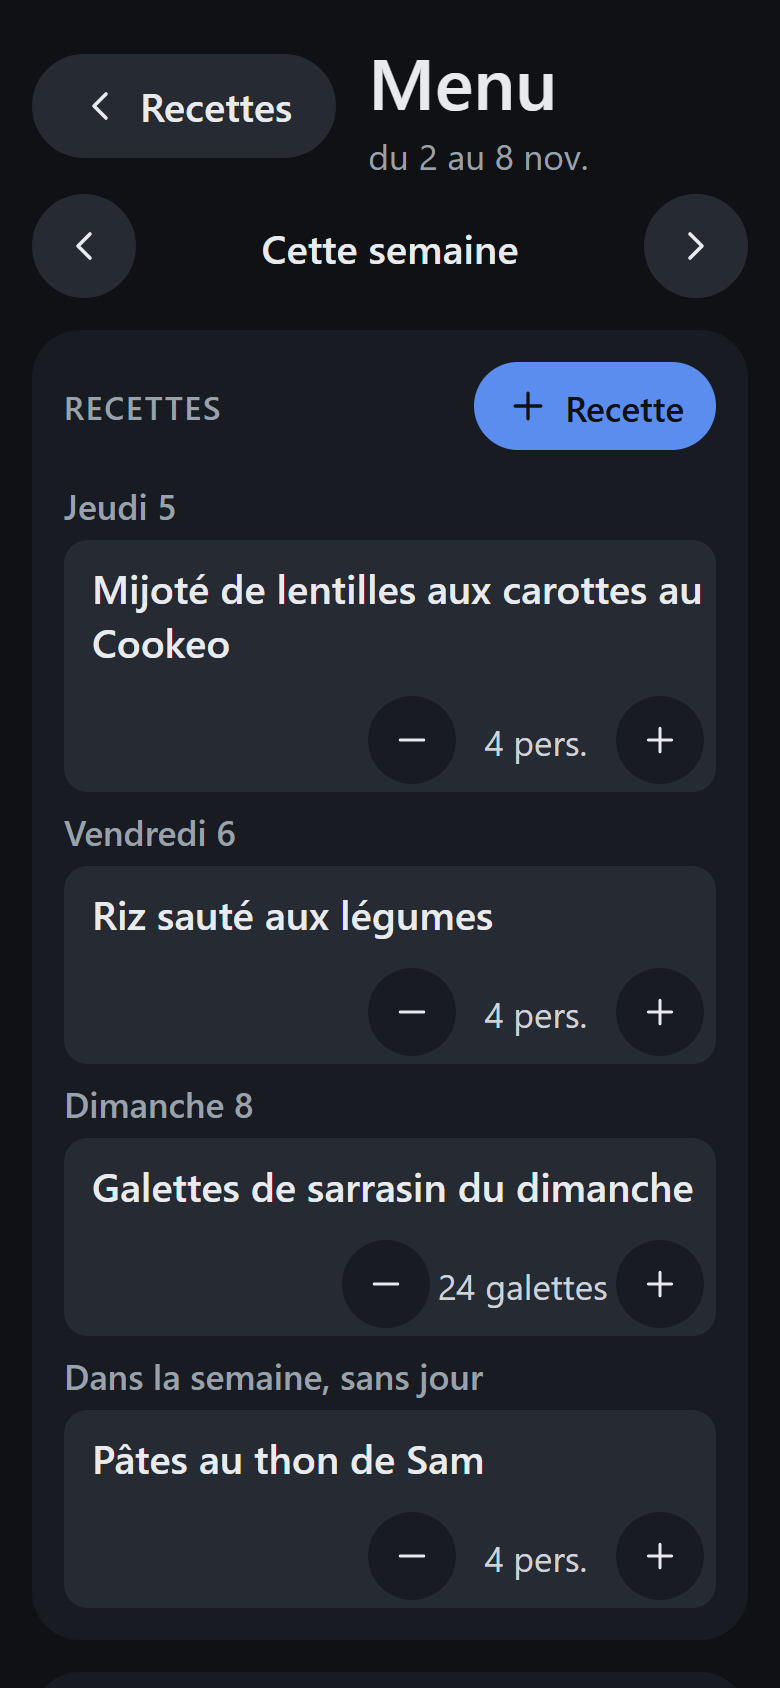
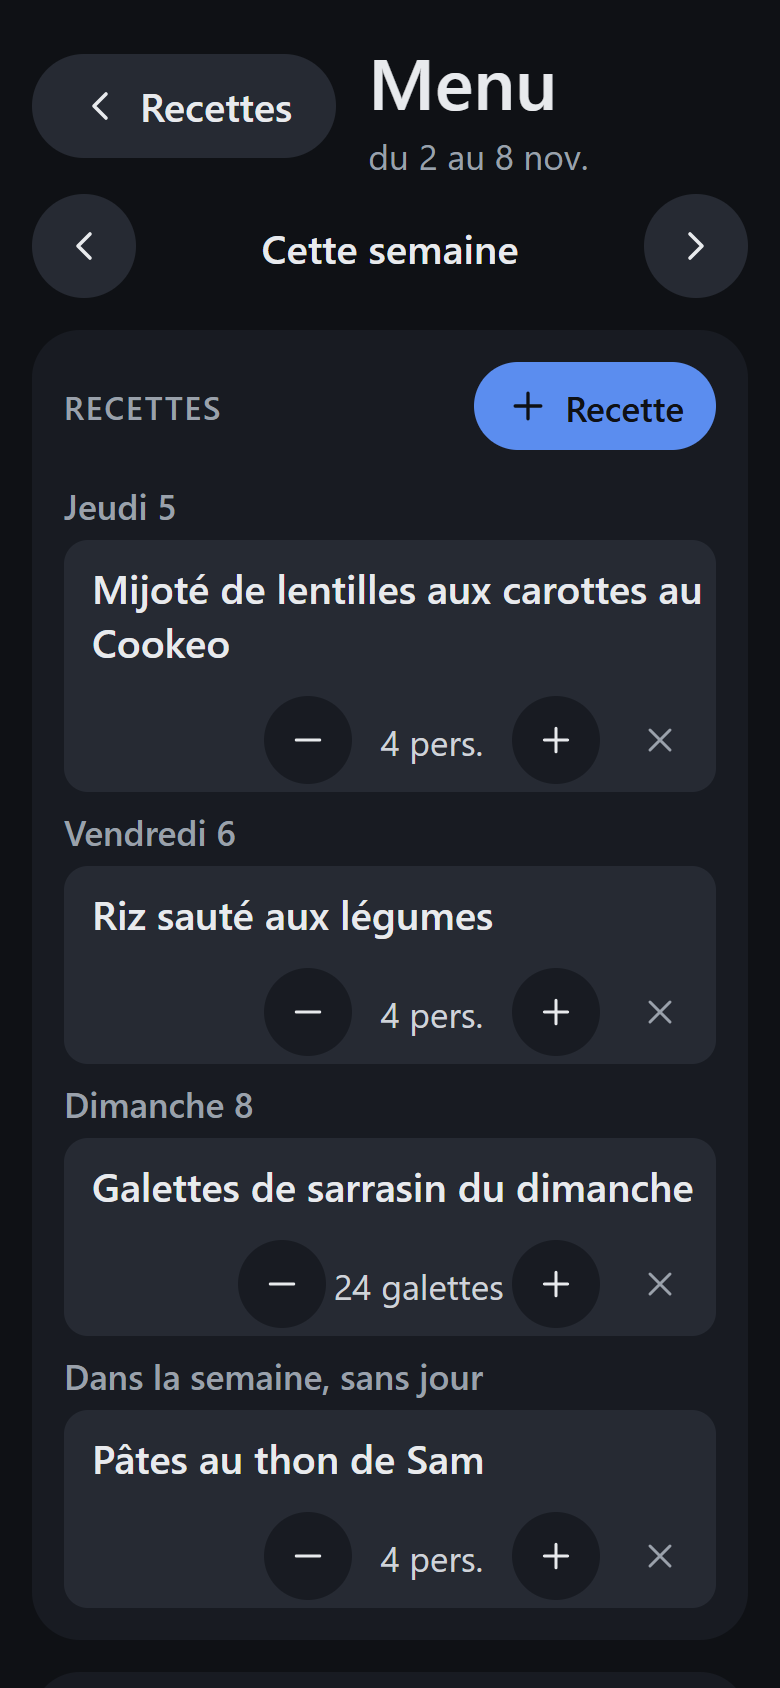
0.51.1 : retirer un repas du menu d'un geste, avec « Annuler »
- Menu de la semaine (tablette et téléphone) : une croix au bout de chaque ligne retire le repas, pour un parent et
  sur une semaine modifiable, recettes qui ne sont plus au carnet comprises ; rien pour les enfants.
- La ligne disparaît tout de suite ; « Annuler » la rend pendant 6 secondes, ensuite seulement le serveur la retire
  (et la liste de courses suit). « Retirer » dans les réglages d'un repas passe par la même attente.
- Captures du menu (tablette, téléphone), README et écrans mis à jour.

diff --git a/web/src/screens/Menu.svelte b/web/src/screens/Menu.svelte
@@ -15,6 +15,7 @@
   import { loadPairing } from '../lib/phone.ts';
   import { createResource } from '../lib/resource.svelte.ts';
   import { type PageRoute, detailPath, phonePath, phoneRecipePath, recipePath } from '../lib/route.ts';
+  import { createUndoable } from '../lib/undo.ts';
 
   const MENU_REFRESH_MS = 30_000;
 
@@ -22,7 +23,8 @@
   // recettes du carnet choisies pour la semaine, chacune pour un nombre de personnes et, si on veut, un jour ; à côté,
   // les courses qui en découlent (par rayon, avec ce qu'on a déjà), qui rejoignent la liste de courses. Semaines
   // précédentes consultables. Modifier : un parent (reconnu à la tablette, ou son téléphone). Placards et liens
-  // entre le stock et les ingrédients se règlent ici aussi.
+  // entre le stock et les ingrédients se règlent ici aussi. Retirer un repas (croix de la ligne ou ses réglages) :
+  // la ligne disparaît tout de suite, « Annuler » la rend pendant quelques secondes, puis le serveur la retire.
   type Props = { back: PageRoute | null };
   let { back }: Props = $props();
 
@@ -35,7 +37,27 @@
   const view = createResource(() => api.menu(week ?? undefined), MENU_REFRESH_MS);
   const recipes = createResource(() => api.recipes(), 5 * 60_000);
   const me = createResource(() => api.me(), 60_000);
+  let destroyed = false;
+
+  /** Retrait différé : la personne a été vérifiée au geste ; la requête part au bout du délai (ou au départ). */
+  let removing = $state<MenuViewEntry | null>(null);
+  const removal = createUndoable<MenuViewEntry>(
+    (entry) => void commitRemove(entry),
+    (pending) => (removing = pending),
+  );
+  async function commitRemove(entry: MenuViewEntry) {
+    try {
+      await api.removeMenuEntry(entry.id);
+    } catch (err) {
+      if (!destroyed) error = (err as Error).message;
+    } finally {
+      if (!destroyed) await view.refresh();
+    }
+  }
+
   onDestroy(() => {
+    removal.flush();
+    destroyed = true;
     view.destroy();
     recipes.destroy();
     me.destroy();
@@ -90,8 +112,14 @@
   }
 
   async function remove(entry: MenuViewEntry) {
-    if (await run(() => api.removeMenuEntry(entry.id))) dialog = null;
+    error = null;
+    if (!phone && !(await actor.allow(FAMILY_ID))) return;
+    dialog = null;
+    removal.start(entry);
   }
+
+  /** Recettes affichées : sans celle dont le retrait attend. */
+  const shown = $derived(view.data ? view.data.entries.filter((e) => e.id !== removing?.id) : []);
 
   const setPeople = (entry: MenuViewEntry, people: number) => run(() => api.updateMenuEntry(entry.id, { people }));
   const setHave = (line: PlanLine, have: boolean) => run(() => api.setMenuHave(view.data!.week, line.key, have));
@@ -139,10 +167,10 @@
           {#if editable}<button type="button" class="btn primary small" onclick={openAdd}><Icon name="plus" size={22} /> Recette</button>{/if}
         </div>
         <div class="scroll">
-          {#if data.entries.length === 0 && !editable}
+          {#if shown.length === 0 && !editable}
             <p class="muted">{data.editable ? 'Aucune recette au menu.' : 'Pas de menu cette semaine-là.'}</p>
           {:else}
-            <MenuDays groups={entriesByDay(data.week, data.entries, !phone)} {editable} {busy} onPeople={setPeople} onOpen={(entry) => (dialog = { kind: 'entry', entry })} />
+            <MenuDays groups={entriesByDay(data.week, shown, !phone)} {editable} {busy} onPeople={setPeople} onOpen={(entry) => (dialog = { kind: 'entry', entry })} onRemove={remove} />
           {/if}
         </div>
       </section>
@@ -176,6 +204,13 @@
     <p class="muted">Impossible de charger le menu : {view.error}</p>
   {/if}
 </div>
+
+{#if removing}
+  <div class="undo" role="status">
+    <span>« {removing.title} » retiré du menu</span>
+    <button type="button" class="btn small" onclick={() => removal.cancel()}><Icon name="undo" size={22} /> Annuler</button>
+  </div>
+{/if}
 
 {#if dialog && view.data}
   {@const data = view.data}
@@ -330,6 +365,35 @@
   .error {
     margin: 0;
     color: var(--danger-fg);
+  }
+
+  /* Bandeau « Annuler » du retrait, en bas au centre, au-dessus de la page. */
+  .undo {
+    position: fixed;
+    left: 50%;
+    bottom: calc(var(--space-3) + env(safe-area-inset-bottom));
+    z-index: 20;
+    display: flex;
+    align-items: center;
+    gap: var(--space-2);
+    max-width: calc(100% - 32px);
+    box-sizing: border-box;
+    padding: 8px 8px 8px var(--space-2);
+    border: 1px solid var(--border-strong);
+    border-radius: var(--radius-lg);
+    background: var(--surface-2);
+    color: var(--fg);
+    font-size: var(--text-small);
+    transform: translateX(-50%);
+  }
+
+  .undo span {
+    min-width: 0;
+    overflow-wrap: anywhere;
+  }
+
+  .undo .btn {
+    flex-shrink: 0;
   }
 
   /* Téléphone : une colonne qui défile en entier, en-tête sur deux lignes. */

diff --git a/web/src/lib/undo.test.ts b/web/src/lib/undo.test.ts
@@ -1,0 +1,69 @@
+// Tests du geste annulable (retrait d'un repas du menu) : délai, « Annuler », geste suivant, départ de la page.
+import { describe, expect, it } from 'vitest';
+import { createUndoable, type Timers } from './undo.ts';
+
+/** Minuteries à la main : `fire()` déclenche celles encore actives. */
+function fakeTimers() {
+  const active = new Map<number, () => void>();
+  let next = 0;
+  const timers: Timers = {
+    set: (fn) => {
+      active.set(++next, fn);
+      return next;
+    },
+    clear: (handle) => active.delete(handle as number),
+  };
+  const fire = () => [...active.entries()].forEach(([id, fn]) => (active.delete(id), fn()));
+  return { timers, fire, count: () => active.size };
+}
+
+describe('geste annulable', () => {
+  it('fait le geste au bout du délai seulement', () => {
+    const { timers, fire } = fakeTimers();
+    const done: string[] = [];
+    const changes: (string | null)[] = [];
+    const undo = createUndoable<string>((id) => done.push(id), (p) => changes.push(p), 5000, timers);
+    undo.start('a');
+    expect(undo.pending).toBe('a');
+    expect(done).toEqual([]);
+    fire();
+    expect(done).toEqual(['a']);
+    expect(undo.pending).toBeNull();
+    expect(changes).toEqual(['a', null]);
+  });
+
+  it('« Annuler » rend l’élément et rien n’est fait', () => {
+    const { timers, fire, count } = fakeTimers();
+    const done: string[] = [];
+    const undo = createUndoable<string>((id) => done.push(id), undefined, 5000, timers);
+    undo.start('a');
+    expect(undo.cancel()).toBe('a');
+    expect(count()).toBe(0);
+    fire();
+    expect(done).toEqual([]);
+    expect(undo.cancel()).toBeNull();
+  });
+
+  it('un deuxième geste fait aussitôt le premier', () => {
+    const { timers, fire } = fakeTimers();
+    const done: string[] = [];
+    const undo = createUndoable<string>((id) => done.push(id), undefined, 5000, timers);
+    undo.start('a');
+    undo.start('b');
+    expect(done).toEqual(['a']);
+    expect(undo.pending).toBe('b');
+    fire();
+    expect(done).toEqual(['a', 'b']);
+  });
+
+  it('quitter la page fait le geste en attente, une seule fois', () => {
+    const { timers, fire } = fakeTimers();
+    const done: string[] = [];
+    const undo = createUndoable<string>((id) => done.push(id), undefined, 5000, timers);
+    undo.start('a');
+    undo.flush();
+    undo.flush();
+    fire();
+    expect(done).toEqual(['a']);
+  });
+});

diff --git a/web/src/components/menu/MenuDays.svelte b/web/src/components/menu/MenuDays.svelte
@@ -4,16 +4,18 @@
   import { type DayGroup, peopleLabel } from '../../lib/menu.ts';
   import Icon from '../Icon.svelte';
 
-  // Recettes du menu, jour par jour puis « dans la semaine » : le nombre de personnes se règle d'un geste ; toucher
-  // le titre ouvre ses réglages (jour, recette, retirer). `editable` faux : semaine passée ou lecture seule.
+  // Recettes du menu, jour par jour puis « dans la semaine » : le nombre de personnes se règle d'un geste, la croix
+  // retire le repas (annulable quelques secondes, voir Menu.svelte) ; toucher le titre ouvre ses réglages (jour,
+  // recette). `editable` faux : semaine passée ou lecture seule, ni réglage ni croix.
   type Props = {
     groups: DayGroup[];
     editable: boolean;
     busy: boolean;
     onPeople: (entry: MenuViewEntry, people: number) => void;
     onOpen: (entry: MenuViewEntry) => void;
+    onRemove: (entry: MenuViewEntry) => void;
   };
-  let { groups, editable, busy, onPeople, onOpen }: Props = $props();
+  let { groups, editable, busy, onPeople, onOpen, onRemove }: Props = $props();
 </script>
 
 <div class="days">
@@ -34,6 +36,9 @@
             </div>
           {:else}
             <span class="people">{peopleLabel(entry)}</span>
+          {/if}
+          {#if editable}
+            <button type="button" class="remove" aria-label="Retirer du menu" title="Retirer du menu" disabled={busy} onclick={() => onRemove(entry)}><Icon name="close" size={20} /></button>
           {/if}
         </div>
       {/each}
@@ -130,7 +135,25 @@
     color: var(--fg);
   }
 
-  .stepper button:disabled {
+  .stepper button:disabled,
+  .remove:disabled {
     opacity: 0.4;
+  }
+
+  /* Croix de retrait : discrète, au bout de la ligne, aussi grande au doigt que les boutons du nombre. */
+  .remove {
+    display: grid;
+    width: 44px;
+    height: 44px;
+    flex-shrink: 0;
+    place-items: center;
+    border: 0;
+    border-radius: 50%;
+    background: none;
+    color: var(--fg-muted);
+  }
+
+  .entry.missing .remove {
+    margin-left: auto;
   }
 </style>

diff --git a/web/src/lib/undo.ts b/web/src/lib/undo.ts
@@ -1,0 +1,62 @@
+// Geste qu'on peut annuler quelques secondes : l'action n'est faite qu'au bout du délai, sauf « Annuler ». Un seul
+// geste en attente à la fois : en commencer un autre fait aussitôt le précédent ; quitter la page aussi (`flush`).
+// Sans navigateur (minuteries injectables) : testé à côté.
+
+export const UNDO_DELAY_MS = 6_000;
+
+export type Timers = {
+  set: (fn: () => void, ms: number) => unknown;
+  clear: (handle: unknown) => void;
+};
+
+const browserTimers: Timers = {
+  set: (fn, ms) => setTimeout(fn, ms),
+  clear: (handle) => clearTimeout(handle as ReturnType<typeof setTimeout>),
+};
+
+export type Undoable<T> = {
+  /** Ce qui attend, ou null. */
+  readonly pending: T | null;
+  /** Met `item` en attente ; un geste déjà en attente est fait tout de suite. */
+  start(item: T): void;
+  /** « Annuler » : rend l'élément en attente (null s'il n'y en avait plus). */
+  cancel(): T | null;
+  /** Fait tout de suite le geste en attente (départ de la page). */
+  flush(): void;
+};
+
+/**
+ * `commit` fait l'action (appel au serveur) ; `onChange` prévient l'affichage quand l'attente change.
+ */
+export function createUndoable<T>(commit: (item: T) => void, onChange: (pending: T | null) => void = () => {}, delayMs = UNDO_DELAY_MS, timers: Timers = browserTimers): Undoable<T> {
+  let pending: T | null = null;
+  let handle: unknown = null;
+
+  function take(): T | null {
+    const item = pending;
+    if (handle !== null) timers.clear(handle);
+    pending = null;
+    handle = null;
+    if (item !== null) onChange(null);
+    return item;
+  }
+
+  function flush() {
+    const item = take();
+    if (item !== null) commit(item);
+  }
+
+  return {
+    get pending() {
+      return pending;
+    },
+    start(item) {
+      flush();
+      pending = item;
+      handle = timers.set(flush, delayMs);
+      onChange(item);
+    },
+    cancel: take,
+    flush,
+  };
+}

diff --git a/README.md b/README.md
@@ -72,21 +72,21 @@ Captures, diagrammes d'architecture et design : [docs/](docs/README.md).
   de retour à l'accueil. Ajouter : quelqu'un de reconnu sur la tablette, ou un téléphone relié ; modifier : un parent
   ou qui a ajouté la recette ; retirer : un parent.
 - **Menu de la semaine** (`/menu` sur la tablette, depuis Recettes ou Listes ; `/m/menu` sur le téléphone, depuis les
-  onglets Courses et Recettes) : des recettes du carnet (notre version), chacune pour un nombre de personnes (par
-  défaut ses portions) et un jour, ou « dans la semaine » ; une recette peut revenir plusieurs fois. Semaines
-  suivantes préparées à l'avance (4 au plus), semaines passées en lecture (12 gardées). Modifier : un parent ; les
-  enfants le voient. **Courses du menu** : les ingrédients mis à l'échelle des personnes, regroupés par ingrédient
-  (unités converties : g / kg, ml / cl / l, c. à c. / c. à s., pièces ; des unités qui ne se comparent pas restent côte
-  à côte, « 2 + 100 g »), rangés par rayon, avec les recettes d'où ils viennent. Ils rejoignent la liste de courses,
-  marqués d'un livre : une ligne du menu suit le menu (mise à jour, retirée quand il n'y a plus rien à acheter), une
-  ligne cochée ou vidée compte comme achetée et n'est jamais touchée (seul le complément revient, sur une nouvelle
-  ligne), une ligne ajoutée à la main pour le même ingrédient l'emporte, et retirer une ligne du menu vaut « j'en ai
-  déjà » pour la semaine. **J'en ai déjà** : les placards (sel, poivre, huile, eau ; liste modifiable) ne sont jamais
-  demandés ; « J'en ai déjà » se coche par ingrédient et par semaine ; d'après le **stock**, un produit relié à un
-  ingrédient (deviné par les mots du nom et la contenance, confirmé une fois puis retenu par produit, « Changer »,
-  « Pas un ingrédient ») retire la ligne quand il y en a assez (« en stock (1 kg) »), ne demande que la différence
-  sinon, et le signale sans trancher quand les unités ne se comparent pas (« 1 oignon » contre « 1 kg »). Le stock
-  n'est jamais décompté quand on cuisine.
+  onglets Courses et Recettes) : des recettes du carnet (notre version), chacune pour un nombre de personnes (par défaut
+  ses portions) et un jour, ou « dans la semaine » ; une recette peut revenir plusieurs fois. Semaines suivantes
+  préparées à l'avance (4 au plus), semaines passées en lecture (12 gardées). Modifier : un parent ; les enfants le
+  voient. La croix d'une ligne retire le repas, « Annuler » le rend pendant 6 secondes. **Courses du menu** : les
+  ingrédients mis à l'échelle des personnes, regroupés par ingrédient (unités converties : g / kg, ml / cl / l, c. à c.
+  / c. à s., pièces ; des unités qui ne se comparent pas restent côte à côte, « 2 + 100 g »), rangés par rayon, avec les
+  recettes d'où ils viennent. Ils rejoignent la liste de courses, marqués d'un livre : une ligne du menu suit le menu
+  (mise à jour, retirée quand il n'y a plus rien à acheter), une ligne cochée ou vidée compte comme achetée et n'est
+  jamais touchée (seul le complément revient, sur une nouvelle ligne), une ligne ajoutée à la main pour le même
+  ingrédient l'emporte, et retirer une ligne du menu vaut « j'en ai déjà » pour la semaine. **J'en ai déjà** : les
+  placards (sel, poivre, huile, eau ; liste modifiable) ne sont jamais demandés ; « J'en ai déjà » se coche par
+  ingrédient et par semaine ; d'après le **stock**, un produit relié à un ingrédient (deviné par les mots du nom et la
+  contenance, confirmé une fois puis retenu par produit, « Changer », « Pas un ingrédient ») retire la ligne quand il y
+  en a assez (« en stock (1 kg) »), ne demande que la différence sinon, et le signale sans trancher quand les unités ne
+  se comparent pas (« 1 oignon » contre « 1 kg »). Le stock n'est jamais décompté quand on cuisine.
 - **Le NAS** (`/nas`) : ouvert par la roue dentée ou en touchant la version de HomeHub sur l'accueil ; état général, processeur,
   mémoire, données et batterie, points à surveiller (contrôles de santé du NAS, sources de HomeHub en erreur,
   points faibles du matériel), services et événements récents (sauvegarde, vérification des données, démarrages).

diff --git a/docs/ecrans.md b/docs/ecrans.md
@@ -1,6 +1,6 @@
 # Écrans
 
-Captures de HomeHub 0.51.0, avec des **données fictives** : famille de test (Alex, Sam, Léa, Tom), agenda d'exemple,
+Captures de HomeHub 0.51.1, avec des **données fictives** : famille de test (Alex, Sam, Léa, Tom), agenda d'exemple,
 faux ÉcoleDirecte, faux temps réel Irigo, produits et marques inventés à la place d'Open Food Facts, recettes inventées sur un faux site de cuisine, calendrier
 scolaire d'exemple (zone B), horloge arrêtée le jeudi 5 novembre 2026 à 07:35 (le 11 novembre et en décembre pour les fériés et les vacances). La météo est réelle,
 celle du jour de la capture.
@@ -95,10 +95,11 @@ par rayon ; une ligne du menu de la semaine porte un livre et ses recettes d'ori
 ### Menu de la semaine
 
 Depuis Recettes ou Listes. À gauche les recettes de la semaine, jour par jour puis « dans la semaine », le nombre de
-personnes se règle d'un geste ; à droite les **courses du menu**, rangées par rayon : quantités mises à l'échelle et
-regroupées entre recettes, recettes d'origine sous chaque ligne. Ce qui n'est pas à acheter est dit : placards (sel,
-huile…), « j'en ai déjà » coché, « en stock (500 g) » d'après un produit relié, ou seulement la différence. Le bouton
-« … à relier » ouvre les produits du stock à relier aux ingrédients.
+personnes se règle d'un geste et la croix retire le repas (« Annuler » quelques secondes) ; à droite les **courses du
+menu**, rangées par rayon : quantités mises à l'échelle et regroupées entre recettes, recettes d'origine sous chaque
+ligne. Ce qui n'est pas à acheter est dit : placards (sel, huile…), « j'en ai déjà » coché, « en stock (500 g) » d'après
+un produit relié, ou seulement la différence. Le bouton « … à relier » ouvre les produits du stock à relier aux
+ingrédients.
 
 ![Menu de la semaine](images/tablette-menu.png)
 
@@ -274,8 +275,9 @@ publicité, « Vous aimerez aussi », commentaires) partagé vers HomeHub : l'ap
 ### Menu du téléphone
 
 Depuis les onglets Courses et Recettes : le menu en une colonne, puis ses courses. Un parent ajoute une recette (nombre
-de personnes, jour) ou la règle ; un enfant le voit sans le modifier. « Stock » propose de relier un produit à un
-ingrédient : deviné d'après le nom et la contenance, confirmé une fois, puis retenu.
+de personnes, jour), la règle ou la retire d'un geste (croix, « Annuler » quelques secondes) ; un enfant le voit sans le
+modifier. « Stock » propose de relier un produit à un ingrédient : deviné d'après le nom et la contenance, confirmé une
+fois, puis retenu.
 
 | Menu | Ajouter une recette | Stock et ingrédients |
 |---|---|---|

diff --git a/TODO.md b/TODO.md
@@ -31,7 +31,8 @@ des recettes de plusieurs sites, et toujours à partir de **notre version** de c
 - [x] Notre version : chaque recette importée se personnalise (portions par défaut, ingrédients, quantités, étapes,
       astuces) ; c'est elle qui sert ensuite, la source restant consultable.
 - [ ] Notes et commentaires de chaque membre sur une recette ; un commentaire peut être résolu.
-- [x] Menu de la semaine (0.51.0) : choisir des recettes et le nombre de personnes pour chacune.
+- [x] Menu de la semaine (0.51.0) : choisir des recettes et le nombre de personnes pour chacune ; retirer un repas
+      d'un geste, avec « Annuler » (0.51.1).
 - [x] Liste de courses **agrégée et cohérente** (0.51.0) : quantités mises à l'échelle des portions, même ingrédient
       regroupé entre recettes (unités converties : g / kg, cl / l, cuillères, « 1 oignon »), rangée par rayon ;
       « j'en ai déjà » pour les placards (sel, huile…), d'après le stock (voir « Stock de la maison ») ; on voit de
